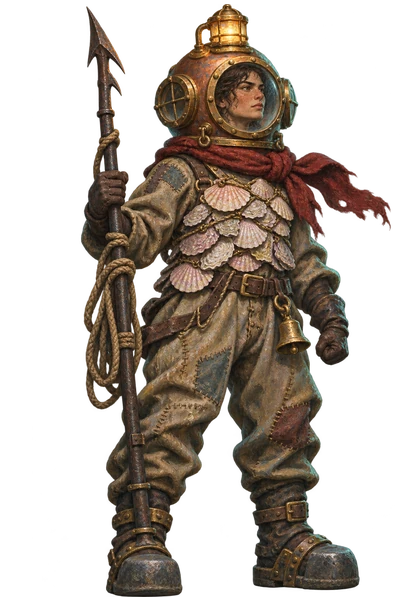
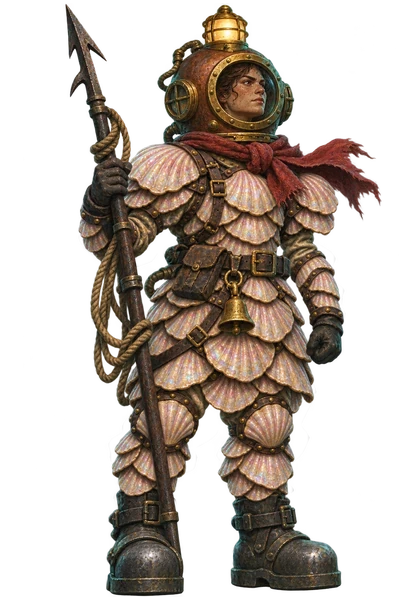
v0.24.2: the Plated Dress looks like shell armour, apart from the plain Diving Dress
The Plated Dress picture is a masked Codex edit of the Diving Dress picture, so
the pose matches and only the armour differs: shell pauldrons, breastplate and
plates down to the shins. tools/wren-art.py input/compose take --base.

diff --git a/js/data.js b/js/data.js
@@ -1105,7 +1105,7 @@
     /* Found, never bought: the first time Dark Water's pin breaks, Wren finds it and carries it home (E.carryHome). */
     suit: { place: 'coat', name: 'Diving Dress', art: 'g_suit', look: 'keeper_packed', lookUnder: 'keeper_suit', price: 0, found: true, desc: "An old keeper's diving dress with a sealed lamp. You need it to go down into the Belfry. It does nothing in a fight." },
     /* The dress again, plated with shell: it counts as the Diving Dress (`as`) for the Belfry's stair. */
-    plated: { place: 'coat', name: 'Plated Dress', art: 'g_plated', look: 'keeper_packed', lookUnder: 'keeper_plated', price: 50, unlock: 'heartlight', as: 'suit', ward: 3, desc: 'The diving dress again, with shell plates over the chest. You can go down into the Belfry in it, and you start each fight with 3 Ward.' },
+    plated: { place: 'coat', name: 'Plated Dress', art: 'g_plated', look: 'keeper_packed', lookUnder: 'keeper_plated', price: 50, unlock: 'heartlight', as: 'suit', ward: 3, desc: 'The diving dress again, armoured with shell plates from shoulders to shins. You can go down into the Belfry in it, and you start each fight with 3 Ward.' },
     purse: { place: 'pocket', name: 'Coin Purse', art: 'g_purse', price: 8, desc: 'Start each run with 30 more Pearls.' },
     pouch: { place: 'pocket', name: "Gleaner's Pouch", art: 'g_pouch', price: 15, desc: 'Gain 10 extra Pearls after each fight.' },
     marker: { place: 'pocket', name: "Barnaby's Marker", art: 'g_marker', price: 25, unlock: 'travellight', desc: "Your first card removal at Barnaby's shop in each run is free." },

diff --git a/js/version.js b/js/version.js
@@ -5,8 +5,11 @@
 (function () {
   'use strict';
   const BL = (globalThis.BL = globalThis.BL || {});
-  BL.VERSION = '0.24.1';
+  BL.VERSION = '0.24.2';
   BL.CHANGELOG = [
+    { v: '0.24.2', date: '2026-11-14', items: [
+      'The Plated Dress looks like armour now: broad shell plates from her shoulders to her shins, where before it was a few shells on the chest. In the Belfry you can tell it from the plain Diving Dress at a glance.',
+    ] },
     { v: '0.24.1', date: '2026-11-14', items: [
       'Wren is the same size in every picture. Before, she grew or shrank a little with her coat, and most of all in the Belfry\'s diving dresses.',
       'She carries her Tide-Bell on her belt, so the Bell line on the kit screens points at it.',

diff --git a/tools/wren-art.py b/tools/wren-art.py
@@ -15,7 +15,8 @@ stay the same:
   3. python3 tools/wren-art.py compose EDIT.png --allow "x,y x,y ..." [--allow ...] --out img/units/keeper_NAME.webp
      pastes back only what changed inside the --allow polygons (canvas pixels), so everything else stays the
      master's own pixels. --preview P.png saves the mask over Wren, so you can check it.
-A whole new picture (a new diving dress) can't be an edit. Put it on the canvas at Wren's scale with:
+Both commands take --base PICTURE.webp to edit another picture instead (the Plated Dress is an edit of keeper_suit).
+A whole new picture (a new diving dress) can't be an edit of her. Put it on the canvas at Wren's scale with:
   python3 tools/wren-art.py place SRC.png --eye Y --head X --out img/units/keeper_NAME.webp
   where Y is her eye level and X the centre of her face (or helmet) in SRC pixels. The lowest opaque row counts as
   her soles."""
@@ -39,12 +40,12 @@ def save(im, out):
     print(out)
 
 
-def make_input(out):
-    save(Image.open(MASTER).convert('RGBA').resize(EDIT_SIZE, Image.LANCZOS), out)
+def make_input(out, base_p=MASTER):
+    save(Image.open(base_p).convert('RGBA').resize(EDIT_SIZE, Image.LANCZOS), out)
 
 
-def compose(edit_p, polys, out, preview=None):
-    base = Image.open(MASTER).convert('RGBA')
+def compose(edit_p, polys, out, preview=None, base_p=MASTER):
+    base = Image.open(base_p).convert('RGBA')
     edit = Image.open(edit_p).convert('RGBA').resize((W, H), Image.LANCZOS)
     A, E = np.asarray(base).astype(float), np.asarray(edit).astype(float)
     prem = lambda X: X[..., :3] * (X[..., 3:4] / 255)
@@ -92,6 +93,6 @@ if __name__ == '__main__':
     a = sys.argv[1:]
     if not a or a[0] not in ('input', 'compose', 'place'):
         sys.exit(__doc__)
-    if a[0] == 'input': make_input(a[1])
-    elif a[0] == 'compose': compose(a[1], arg(a, '--allow', many=True), arg(a, '--out'), arg(a, '--preview'))
+    if a[0] == 'input': make_input(a[1], arg(a, '--base', MASTER))
+    elif a[0] == 'compose': compose(a[1], arg(a, '--allow', many=True), arg(a, '--out'), arg(a, '--preview'), arg(a, '--base', MASTER))
     else: place(a[1], float(arg(a, '--eye')), float(arg(a, '--head')), arg(a, '--out'))

diff --git a/WORLD.md b/WORLD.md
@@ -136,7 +136,7 @@ The suit still has to be carried home before it can be worn on a later expeditio
 - **Open:** How the rest of what Wren brings home is kept or used between expeditions.
 - **Agreed:** The pack does not grow and cannot be repacked after breaking a pin. If Wren brings the diving suit, it occupies a worn slot from the first band onward and has no effect in fights. Carrying it therefore makes every band above the last harder. She cannot enter the Belfry without it.
 - **Agreed:** Wren finds the suit the first time she clears the last walkable band, initially the second level. She cannot put it on during that expedition, so she has to carry it home. From then on she can pack it on shore. It is an old keeper's diving dress with a sealed lamp. Her open lantern establishes that the bands above the Belfry contain air.
-- **In the game (v0.22.0):** Once the Heart is home, the Workshop can make the Plated Dress: the same dress mended again, with shell plates sewn over the chest. It opens the Belfry like the first, and the plates give 3 Ward at the start of each fight. The mended Diving Dress stays the plain one.
+- **In the game (v0.22.0):** Once the Heart is home, the Workshop can make the Plated Dress: the same dress mended again, with shell plates sewn over the chest (since v0.24.2, shell armour strapped over it from shoulders to shins). It opens the Belfry like the first, and the plates give 3 Ward at the start of each fight. The mended Diving Dress stays the plain one.
 - **In the game (v0.20.0):** The Diving Dress hangs above the Belfry's stair the first time Wren breaks Dark Water's pin without wearing one. Its seams have rotted and its lamp is dry, so she carries it home and mends it. From then on it is in the Workshop's Coat place (not for sale), and wearing it means leaving the Cork Vest or the Shell Gorget at home. It does nothing in a fight. In the Belfry, Wren's picture wears it. A debug-cheated run carries nothing home, the dress included.
 - **In the game:** The stops down the map are landings. The top bar reads "Landing 3/8" (8 a level since v0.19.0), and the pin waits on the last landing. A level is one band of an expedition: the Shallows, Dark Water, then the Belfry (v0.20.0).
 - **In the game:** Going down is a descent, and Wren sets out. The game says "dive" only for the flooded hold of the Gilded Gull.
@@ -144,7 +144,7 @@ The suit still has to be carried home before it can be worn on a later expeditio
 ## People and creatures
 
 - **In the game:** Wren, the Keeper, is the last lighthouse keeper. She wears an oilskin, a scarf, and boots, and carries a harpoon and an open lantern. In the Belfry she wears the old keeper's diving dress over them (v0.20.0).
-- **In the game (v0.24.0, redrawn in v0.24.1):** Wren's picture follows her coat. The Cork Vest is strapped over her oilskin, and the Shell Gorget is a wide collar of shells over her throat and shoulders. With a diving dress packed, its helmet hangs at her hip and the canvas suit is rolled on her back until the Belfry, where she wears it; the Plated Dress has shell plates over the chest. She carries her open lantern above the Belfry either way.
+- **In the game (v0.24.0, redrawn in v0.24.1):** Wren's picture follows her coat. The Cork Vest is strapped over her oilskin, and the Shell Gorget is a wide collar of shells over her throat and shoulders. With a diving dress packed, its helmet hangs at her hip and the canvas suit is rolled on her back until the Belfry, where she wears it; the Plated Dress is armoured in pale shell plates from shoulders to shins (v0.24.2), so it reads apart from the plain canvas dress. She carries her open lantern above the Belfry either way.
 - **Agreed:** Wren's control of the water comes from the keeper's craft. Keepers use the Brass Tide-Bell, a hand-bell, to move water in a pool, stair, or cut. The Drowned Bellwether is the same kind of tool, operating across the coast. It is sunk, still ringing, and holding the sea over the Heart.
 - **Agreed (2026-11-14), in the game (v0.24.1):** Wren's tide-bell hangs at her belt, and the kit screens point the Bell place there. The lantern stays in her raised hand. A keeper does not put down the lantern or let it leave her hand, because it holds the last flame lit from the Heart. The bell must not take the lantern's hand in any picture.
 - **In the game:** The Drowned Bellwether is bronze. It rings, swings its clapper, tolls, and pulls the Swell down. At two thirds of its health (half until v0.16.0), it cracks and calls a shoal of Bell Minnows. It was the Shallows' boss until v0.19.0. Since v0.20.0 it hangs in the Belfry, and it does not simply die (since v0.23.0 its picture is a cracked bronze bell on an iron yoke, with a golden glow and its clapper inside and only a few pale tendrils at the rim; the eye and the arms show only when the Thing comes out): when its bronze breaks, **the Thing in the Bell** comes out, with one eye and many arms, and two Grasping Arms with it. The Thing drinks from Wren's lantern through its arms (Doused 1 for each arm), opens its eye (it is Soaked and takes more damage), glares, and grows its arms back. Grasping Arms squeeze the air out of her dress (Breathless).

diff --git a/GAME_NOTES.md b/GAME_NOTES.md
@@ -1498,7 +1498,7 @@ At 4, overpacking breaks even on average. A pair that suits the plan pays (Shell
   - The new Shell Gorget is a wide collar of pale shells over her throat and shoulders. The vest is bulkier, and the rolled dress and its copper helmet are bigger and paler. All three still read at fight size (220 px).
   - The Belfry pictures were placed on the canvas from their originals (`wren-art.py place`) at 1.06 times their old scale, matched on eye level to sole. Her face is now 29-30 px from eye to chin in all six pictures. Her eyes sit 5-7 px lower in the dress, about 1% of her height. That was left as it is: moving them up would push the helmet lamp off the canvas.
   - Codex's image fallback script takes a real mask, but it bills the `OPENAI_API_KEY` account, and its gpt-image-2 can't make a transparent background. It wasn't used.
-  - Open: the Diving Dress and the Plated Dress still look alike in the Belfry. The Plated Dress could be made as an edit of `keeper_suit`, with larger shell plates on the chest, shoulders and thighs.
+  - v0.24.2: the user asked for the two dresses to look more different. The Diving Dress was kept, because it matches its icon, the Workshop picture and the rolled canvas Wren carries. The Plated Dress is now a masked edit of `keeper_suit` (`--base`, allowed area everything below the helmet line at y 142), so the pose is identical and only the armour differs: broad shell pauldrons, a shell breastplate, and shell plates on the forearms, thighs, knees and shins, pale cream and coral with dark leather straps. The old shells were pale on pale canvas and almost vanished in a fight. Variant A was used, because its plates vary in size and have deep gaps; B (`assets-src/units/keeper_plated-edit-b.png`) was more uniform, like fish scales. The item text now says the plates run from shoulders to shins.
 
 ### Kit view (v0.24.0, 2026-11-14)
 
